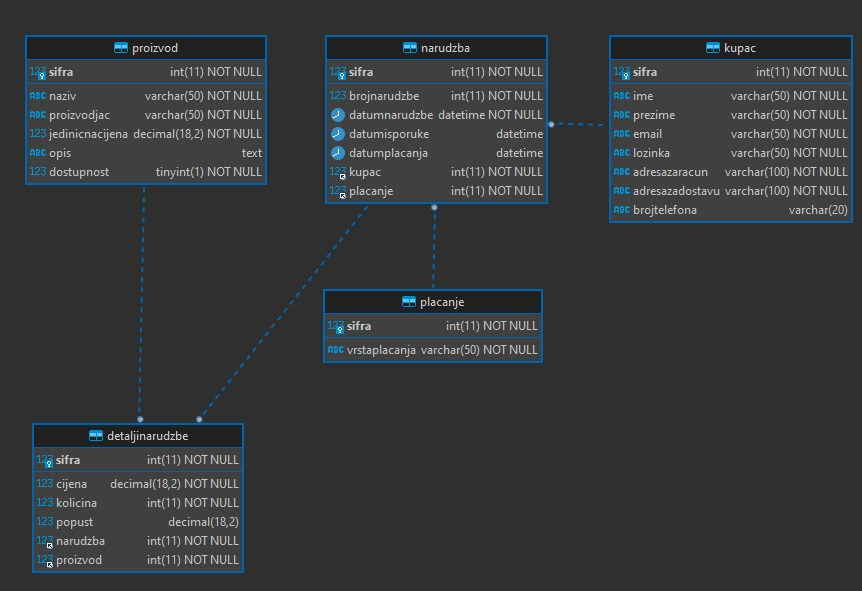
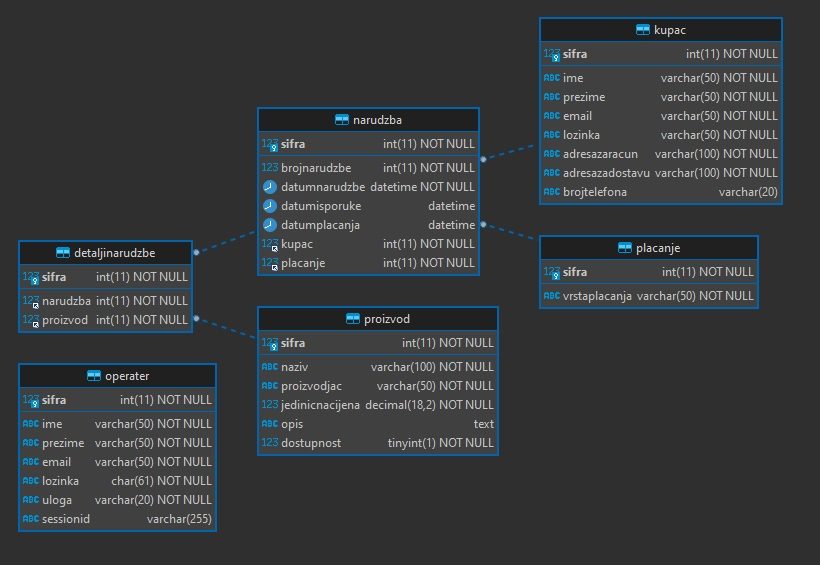
update databaze
- iz detaljinarudzbe izbrisane vrijednosti cijena, kolicina, popust

Changed region(s): [[0.0, 0.0301, 1.0, 0.9929], [0.0, 0.4212, 0.2744, 0.6018]]

diff --git a/www/hardshop.hr/app/model/Detaljinarudzbe.php b/www/hardshop.hr/app/model/Detaljinarudzbe.php
@@ -12,10 +12,7 @@ class Detaljinarudzbe
         a.sifra,
         b.brojnarudzbe,
         concat(d.ime, \' \',d.prezime) as kupac,
-		c.naziv,
-		a.kolicina,
-		a.popust,
-        a.cijena
+		c.naziv
         from detaljinarudzbe a 
         left join narudzba b on a.narudzba=b.sifra 
         left join proizvod c on a.proizvod=c.sifra
@@ -24,10 +21,7 @@ class Detaljinarudzbe
         a.sifra,
         b.brojnarudzbe,
         concat(d.ime, \' \',d.prezime),
-		c.naziv,
-		a.kolicina,
-		a.popust,
-        a.cijena
+		c.naziv
         
         ');
 
@@ -54,8 +48,8 @@ class Detaljinarudzbe
         $veza=DB::getInstance();
         $izraz=$veza->prepare('
         
-        insert into detaljinarudzbe(cijena,kolicina,popust,narudzba,proizvod)
-        values (:cijena,:kolicina,:popust,:narudzba,:proizvod);
+        insert into detaljinarudzbe(narudzba,proizvod)
+        values (:narudzba,:proizvod);
         
         ');
         $izraz->execute($parametri);
@@ -67,7 +61,7 @@ class Detaljinarudzbe
         $veza=DB::getInstance();
         $izraz=$veza->prepare('
         
-        update detaljinarudzbe set cijena=:cijena,kolicina=:kolicina,popust=:popust,narudzba=:narudzba,
+        update detaljinarudzbe set narudzba=:narudzba,
         proizvod=:proizvod where sifra=:sifra
         
         ');

diff --git a/www/hardshop.hr/app/model/Narudzba.php b/www/hardshop.hr/app/model/Narudzba.php
@@ -15,9 +15,6 @@ class Narudzba
         e.naziv,
         e.jedinicnacijena,
         b.vrstaplacanja,
-        d.kolicina,
-        d.popust,
-        d.cijena,
         a.datumnarudzbe,
         a.datumisporuke,
         a.datumplacanja
@@ -33,9 +30,6 @@ class Narudzba
         e.naziv,
         e.jedinicnacijena,
         b.vrstaplacanja,
-        d.kolicina,
-        d.popust,
-        d.cijena,
         a.datumnarudzbe,
         a.datumisporuke,
         a.datumplacanja
@@ -56,7 +50,7 @@ class Narudzba
         $izraz=$veza->prepare('
         
         select 
-        a.sifra, a.naziv, b.cijena, b.kolicina, b.popust
+        a.sifra, a.naziv
         from proizvod a
         inner join detaljinarudzbe b on a.sifra=b.proizvod
         where b.narudzba=:sifra
@@ -85,7 +79,7 @@ class Narudzba
         $izraz=$veza->prepare('
         
         select 
-        a.sifra, a.naziv, b.cijena, b.kolicina, b.popust
+        a.sifra, a.naziv
         from proizvod a
         inner join detaljinarudzbe b on a.sifra=b.proizvod
         where b.narudzba=:sifra
